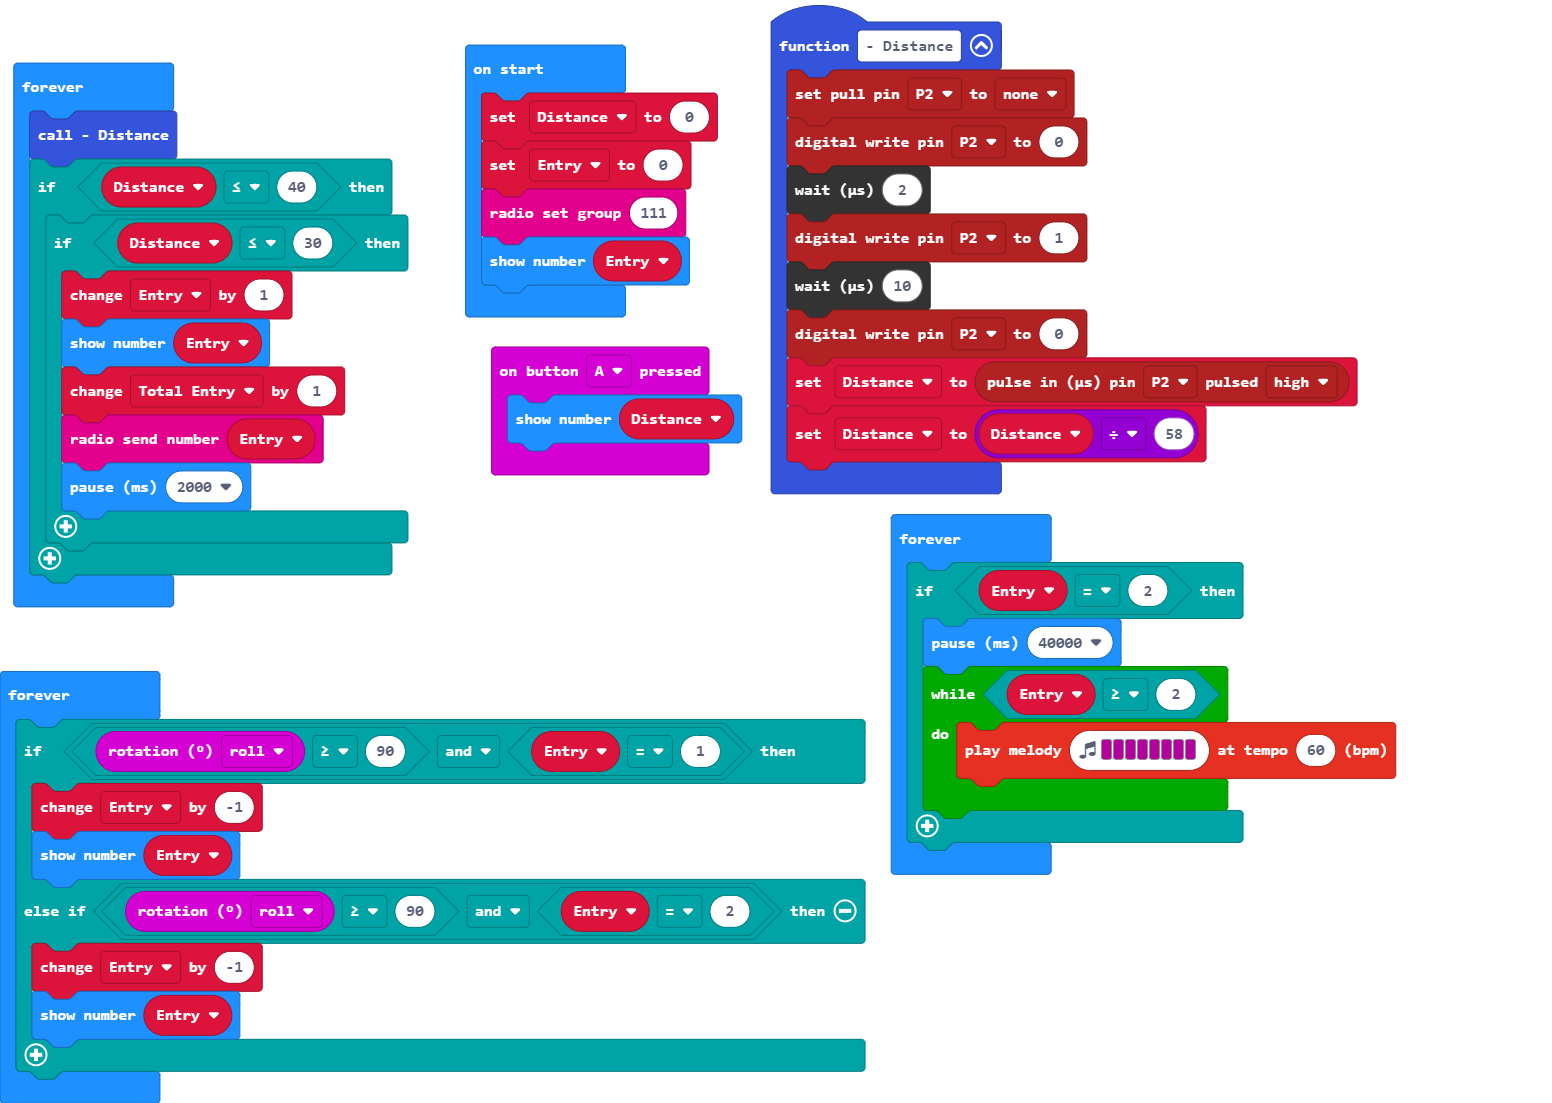
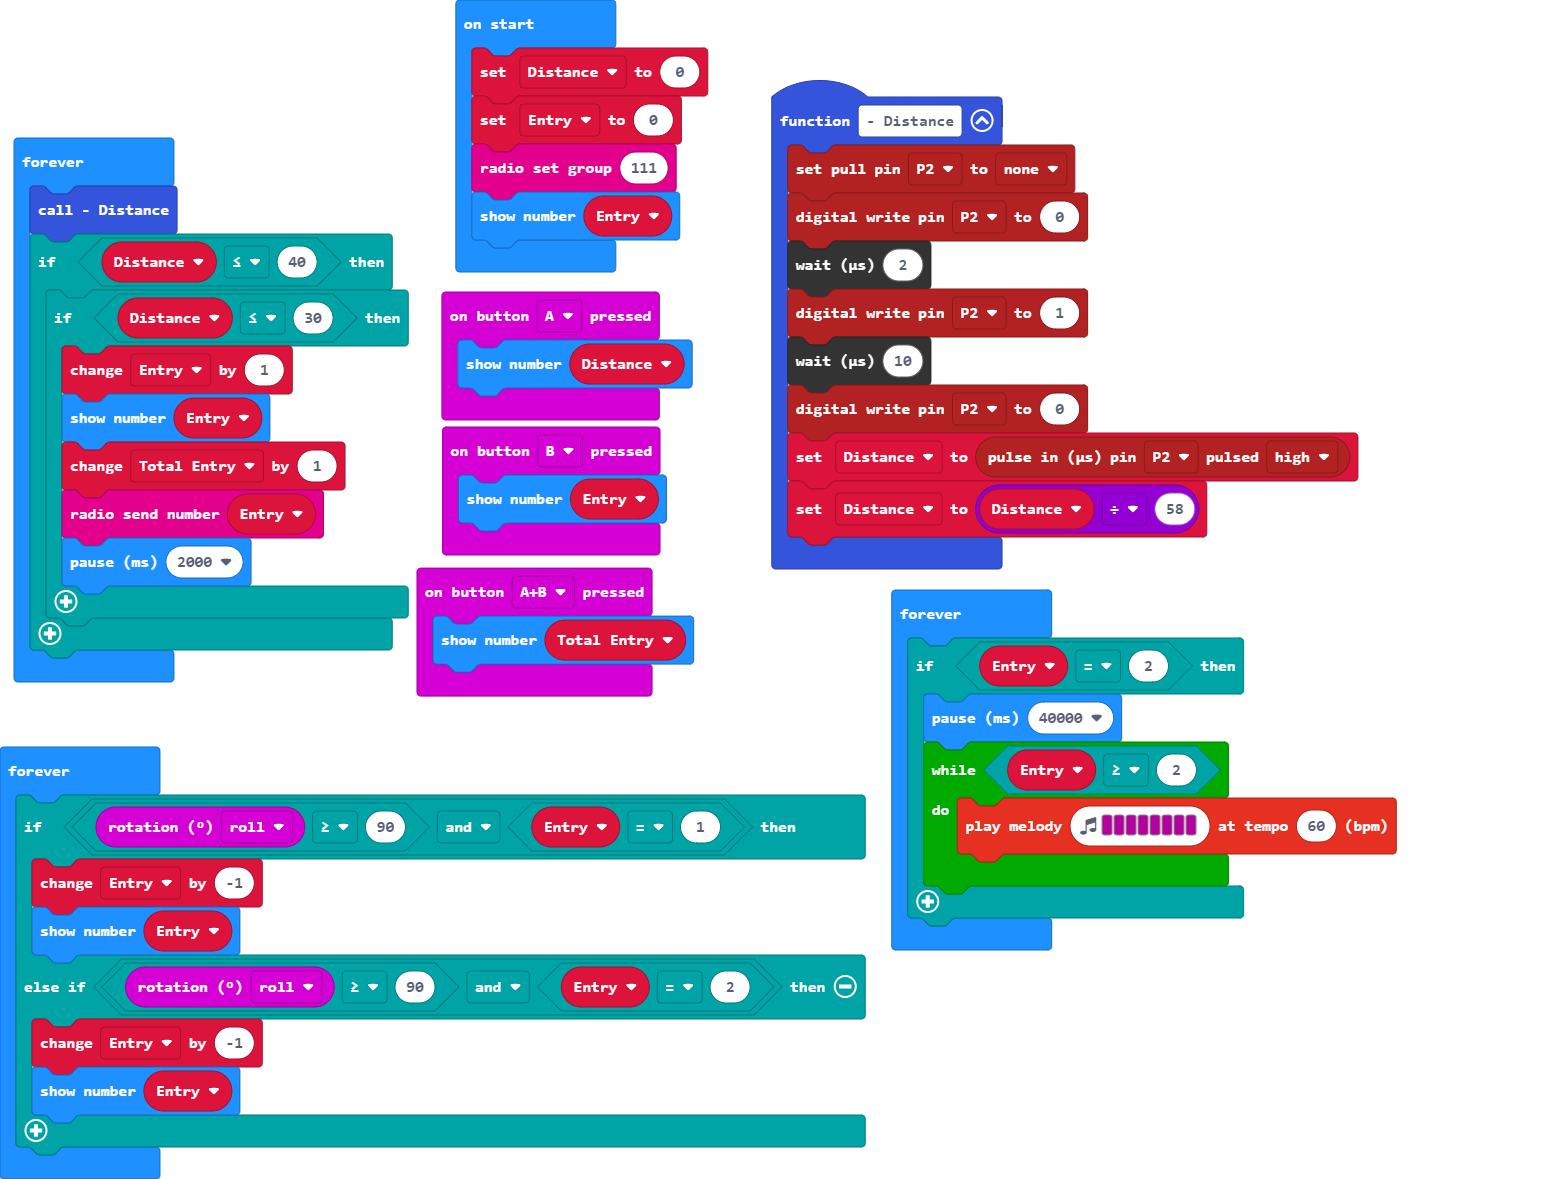
Update main.blocks, main.ts

diff --git a/main.ts b/main.ts
@@ -11,10 +11,17 @@ function _Distance () {
 input.onButtonPressed(Button.A, function () {
     basic.showNumber(Distance)
 })
+input.onButtonPressed(Button.AB, function () {
+    basic.showNumber(Total_Entry)
+})
+input.onButtonPressed(Button.B, function () {
+    basic.showNumber(Entry)
+})
 let Total_Entry = 0
+let Entry = 0
 let Distance = 0
 Distance = 0
-let Entry = 0
+Entry = 0
 radio.setGroup(111)
 basic.showNumber(Entry)
 basic.forever(function () {
